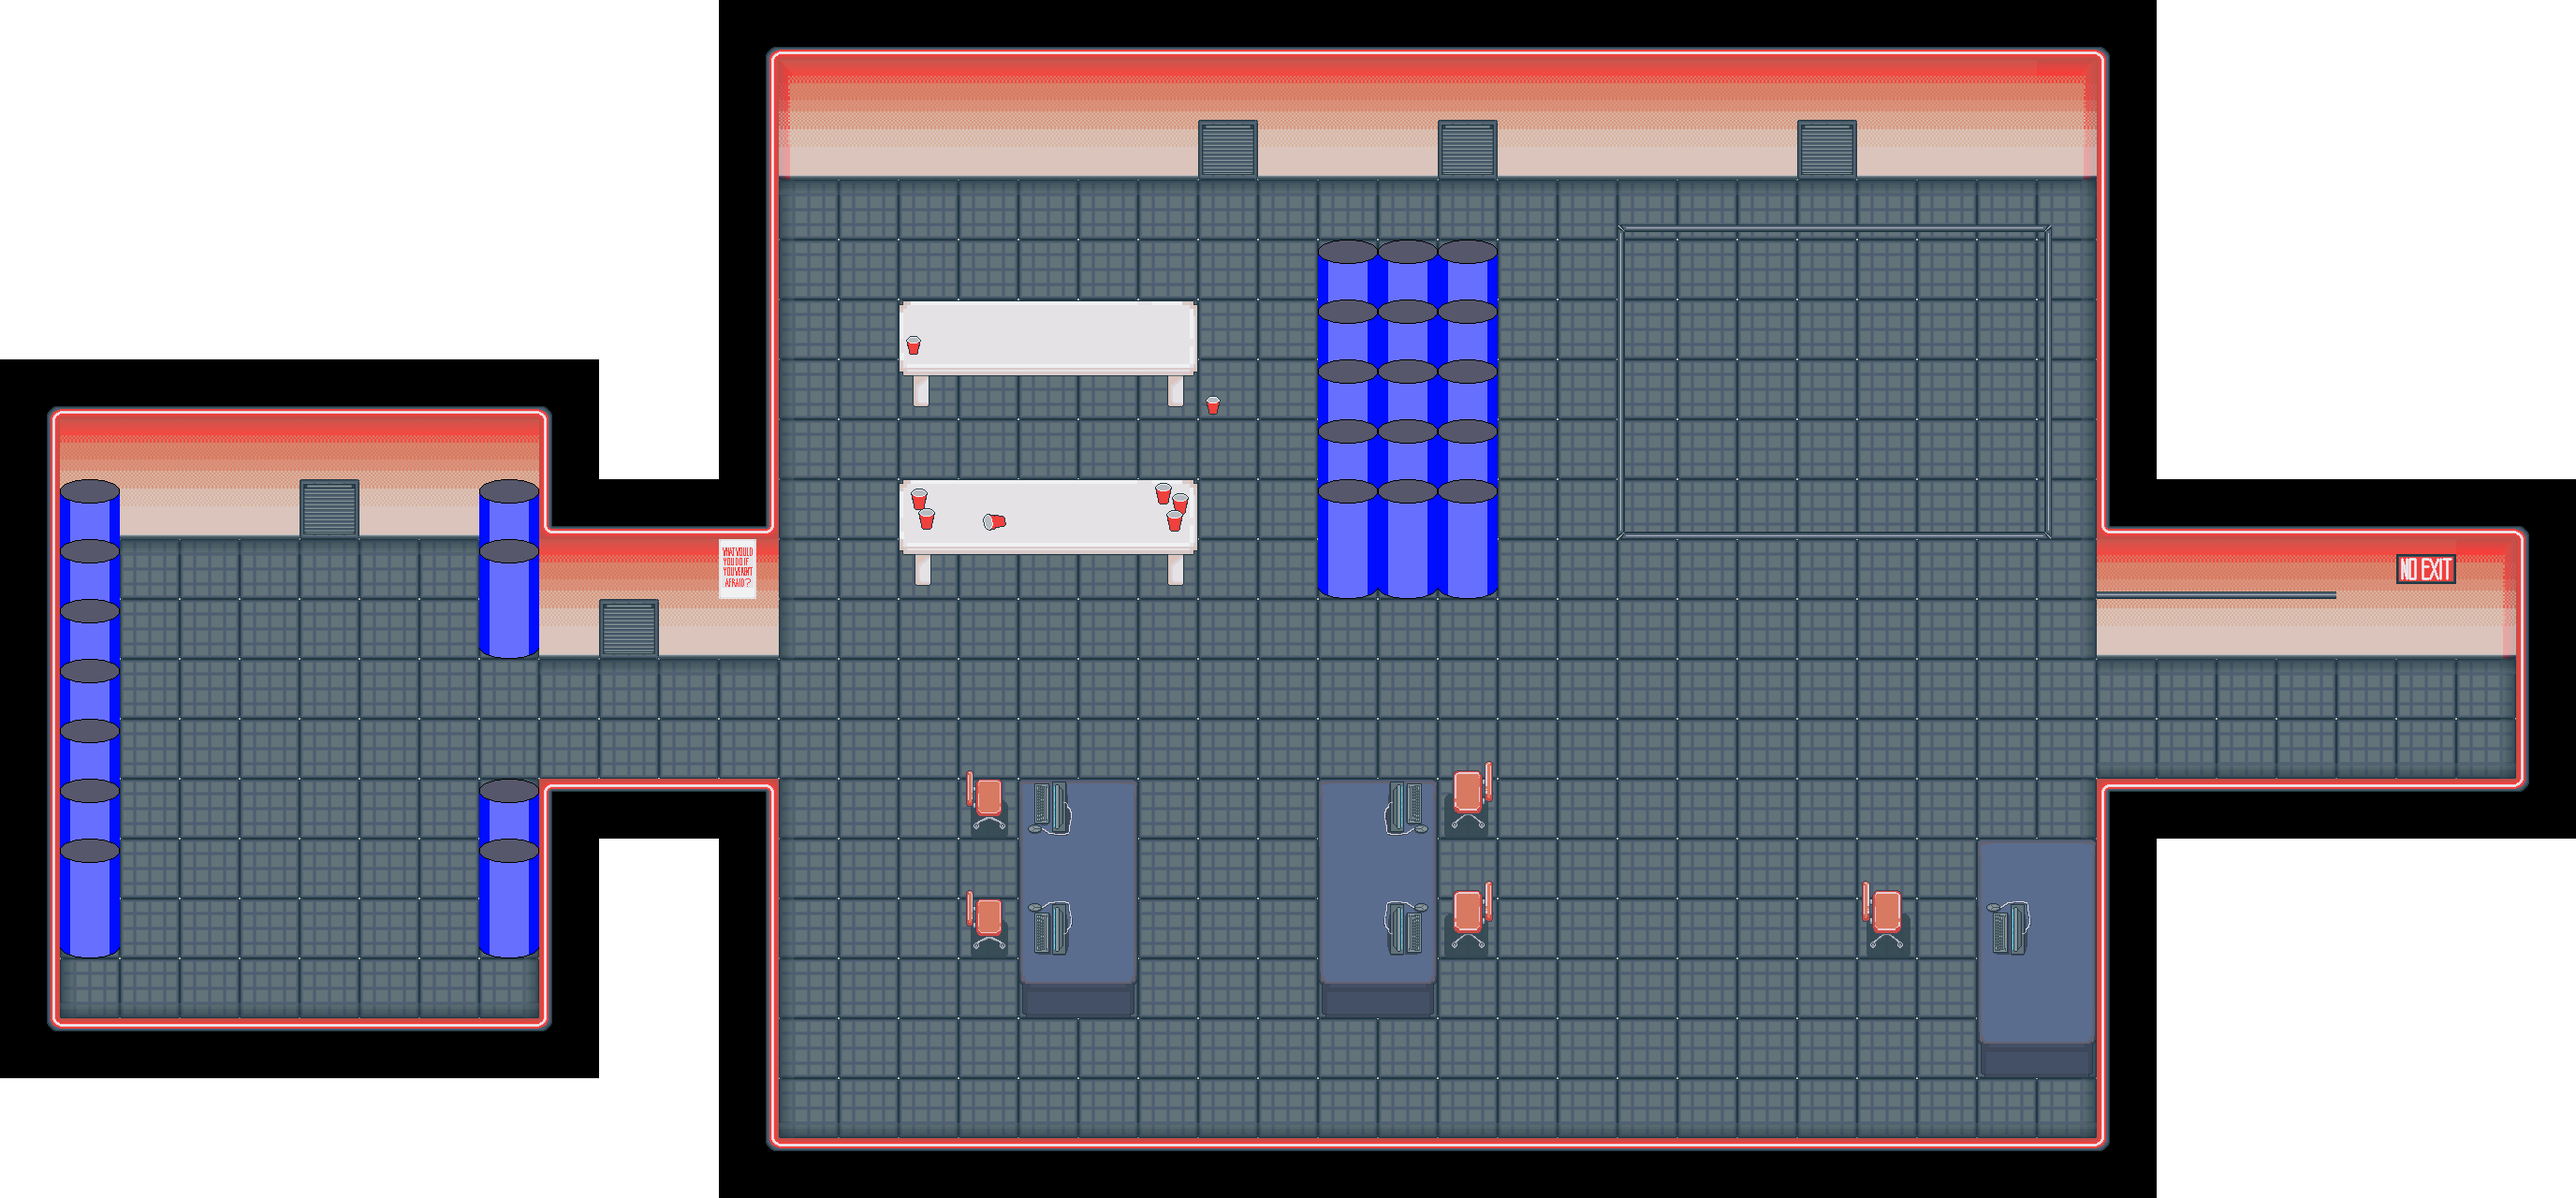
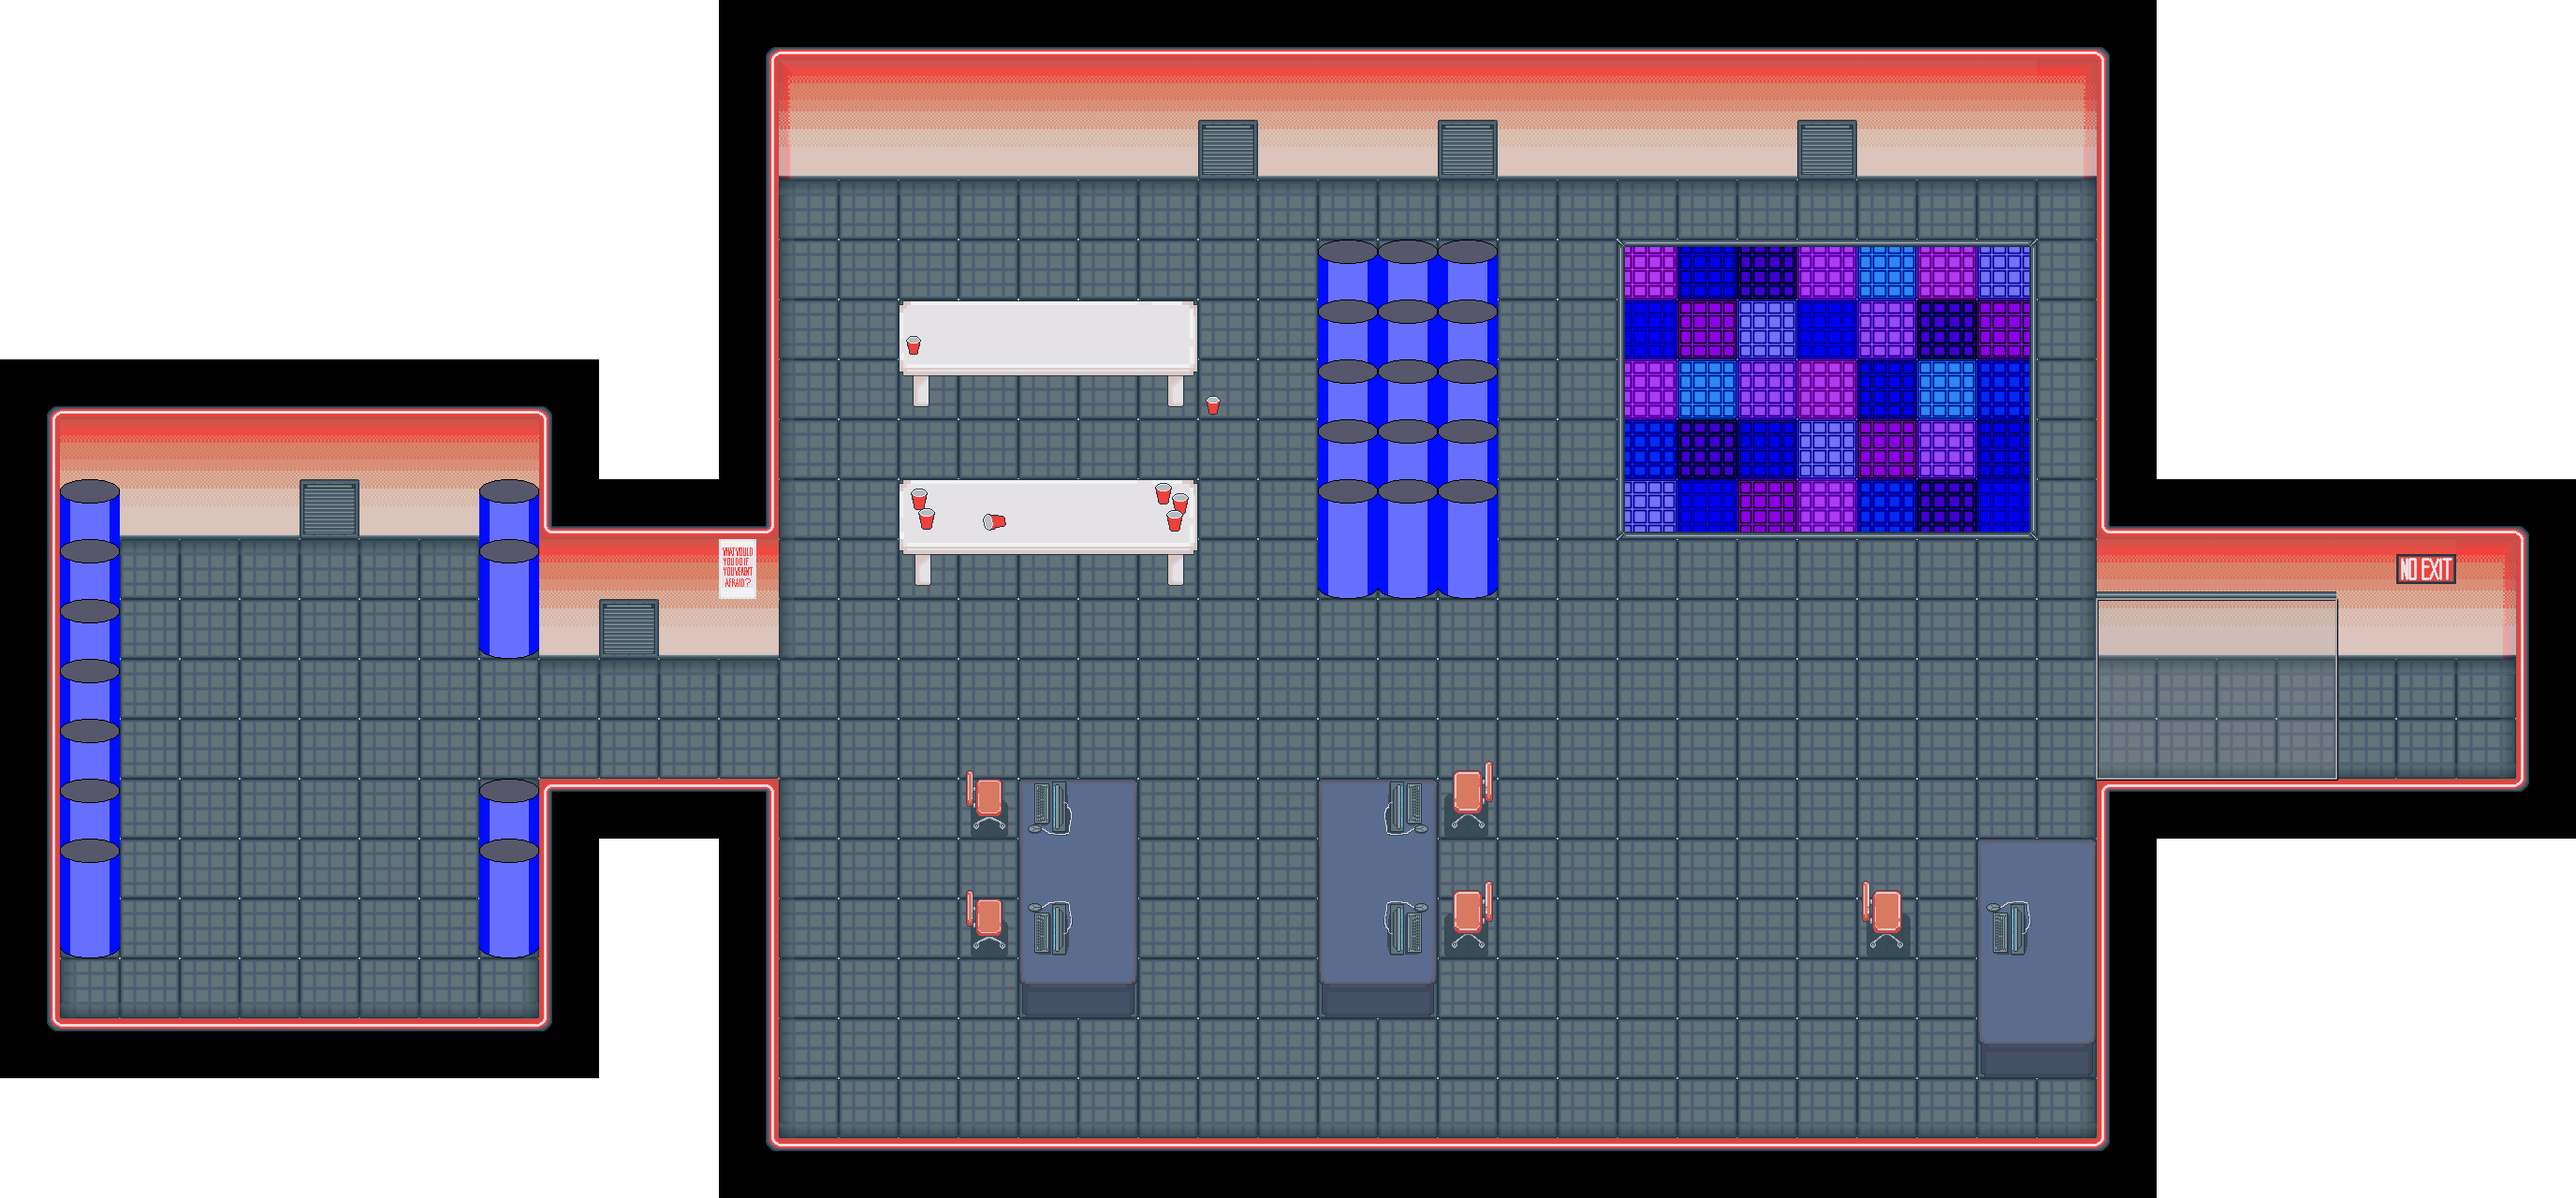
Add new poster assets

Changed region(s): [[0.625, 0.1875, 0.8125, 0.4688]]

diff --git a/assets/map/atticusWalls.tsx b/assets/map/atticusWalls.tsx
@@ -1,5 +1,5 @@
 <?xml version="1.0" encoding="UTF-8"?>
-<tileset version="1.10" tiledversion="1.11.2" name="atticusWalls" tilewidth="464" tileheight="336" tilecount="45" columns="0">
+<tileset version="1.10" tiledversion="1.11.2" name="atticusWalls" tilewidth="464" tileheight="336" tilecount="56" columns="0">
  <grid orientation="orthogonal" width="1" height="1"/>
  <tile id="0">
   <image source="../images/mapTiles/bttm L crnr.png" width="64" height="64"/>
@@ -135,5 +135,38 @@
  </tile>
  <tile id="45">
   <image source="../images/fullVat.png" width="64" height="128"/>
+ </tile>
+ <tile id="46">
+  <image source="../images/mapTiles/wall asset, right corner w_ neon shading.png" width="64" height="128"/>
+ </tile>
+ <tile id="47">
+  <image source="../images/mapTiles/wall asset, main_middle w_ neon shading.png" width="64" height="128"/>
+ </tile>
+ <tile id="48">
+  <image source="../images/mapTiles/wall asset, right corner w_ neon shading.png" width="64" height="128"/>
+ </tile>
+ <tile id="49">
+  <image source="../images/objectTiles/exit door.png" width="64" height="112"/>
+ </tile>
+ <tile id="50">
+  <image source="../images/mapTiles/unshaded floor tile (middle, not touching a wall).png" width="64" height="64"/>
+ </tile>
+ <tile id="51">
+  <image source="../images/objectTiles/dance floor (unanimated).png" width="448" height="320"/>
+ </tile>
+ <tile id="52">
+  <image source="../images/objectTiles/United in Space poster.png" width="128" height="64"/>
+ </tile>
+ <tile id="53">
+  <image source="../images/objectTiles/there's no running out of space poster.png" width="128" height="64"/>
+ </tile>
+ <tile id="54">
+  <image source="../images/objectTiles/The Next Frontier poster.png" width="64" height="96"/>
+ </tile>
+ <tile id="55">
+  <image source="../images/objectTiles/growth more poster.png" width="64" height="64"/>
+ </tile>
+ <tile id="56">
+  <image source="../images/objectTiles/exit sign.png" width="64" height="64"/>
  </tile>
 </tileset>
